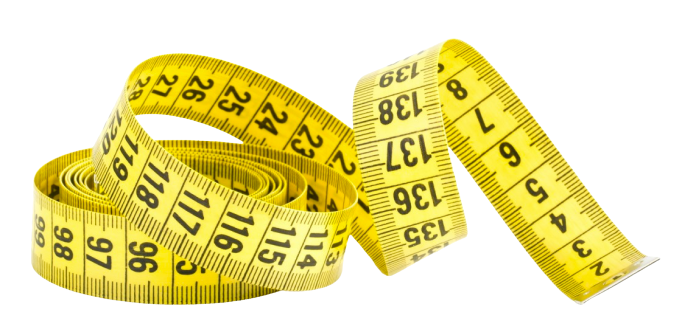
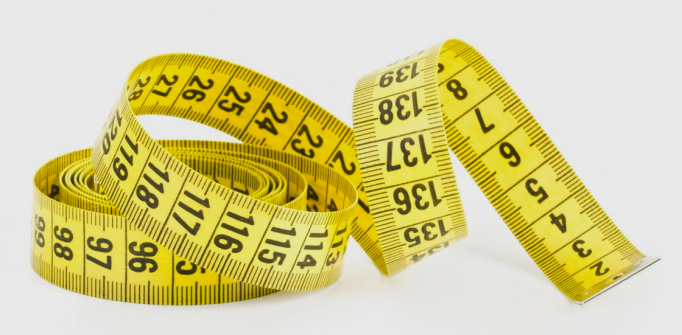
second section img placed

diff --git a/src/pages/Home/index.jsx b/src/pages/Home/index.jsx
@@ -4,6 +4,7 @@ import Header from "../../components/Header";
 import Footer from "../../components/Footer";
 
 import FirstImg from '../../assets/first-section-img.png';
+import SecondImg from '../../assets/second-section-img.png';
 
 export default function Home() {
    return (
@@ -13,6 +14,9 @@ export default function Home() {
             <FirstTitle>Measuring everything</FirstTitle>
             <FirstSectionImg src={FirstImg} />
         </FirstSection>
+        <SecondSection>
+            <SecondSectionImg src={SecondImg} />
+        </ SecondSection>
         <Footer />
     </>
    ); 
@@ -41,4 +45,24 @@ const FirstTitle = styled.span`
     color: #716565;
     font-weight: bold;
     margin-right: 27px;
+`;
+
+const SecondSection = styled.section`
+    width: 100%;
+    height: 1024px;
+    background-color: #506FA9;
+    display: flex;
+    justify-content: center;
+    align-items: center;
+    position: relative;
+    top: 0;
+    left: 0;
+`;
+
+const SecondSectionImg = styled.img`
+    width: 1038px;
+    height: 689px;
+    position: absolute;
+    top: 83px;
+    right: 0;
 `;
